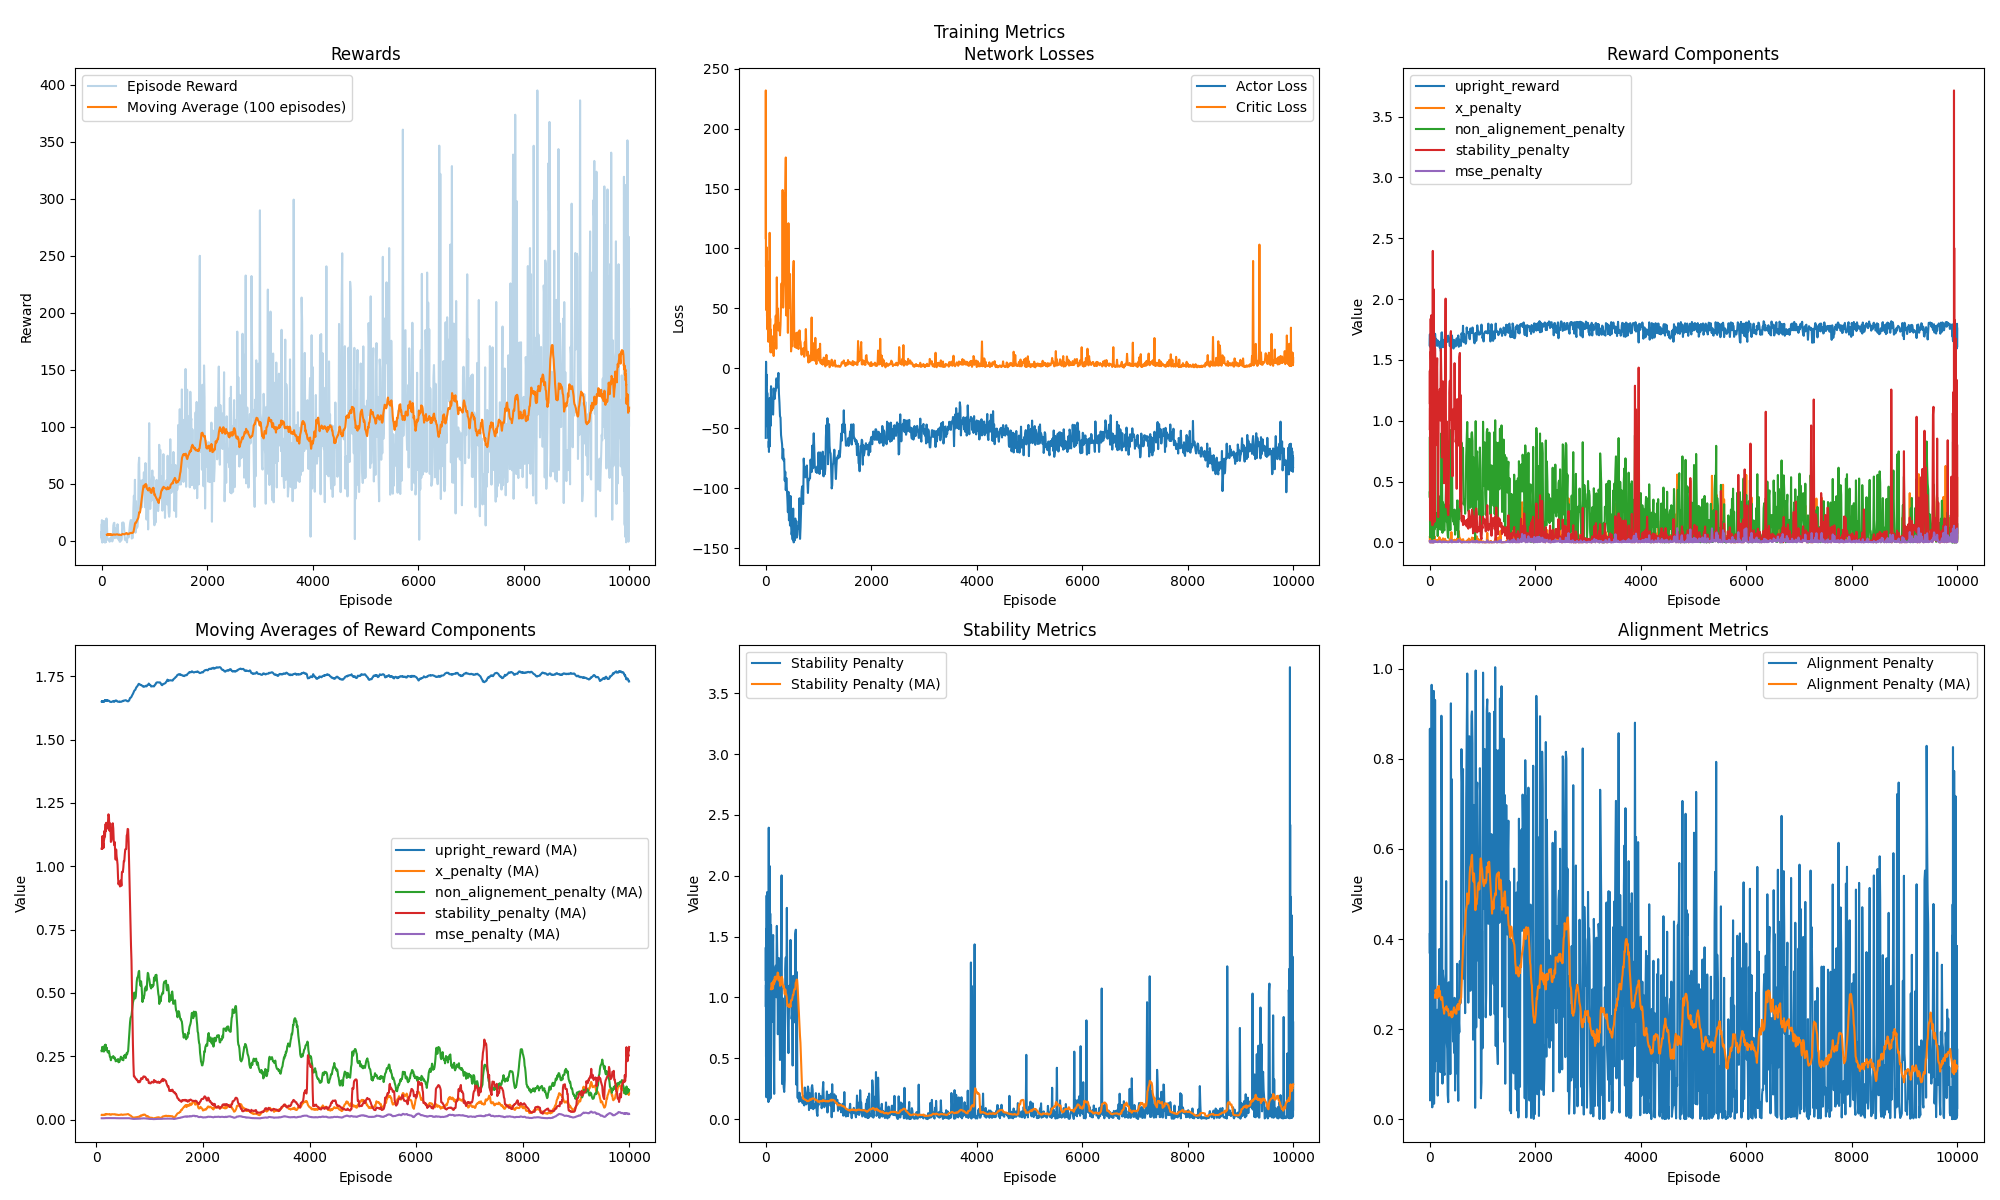
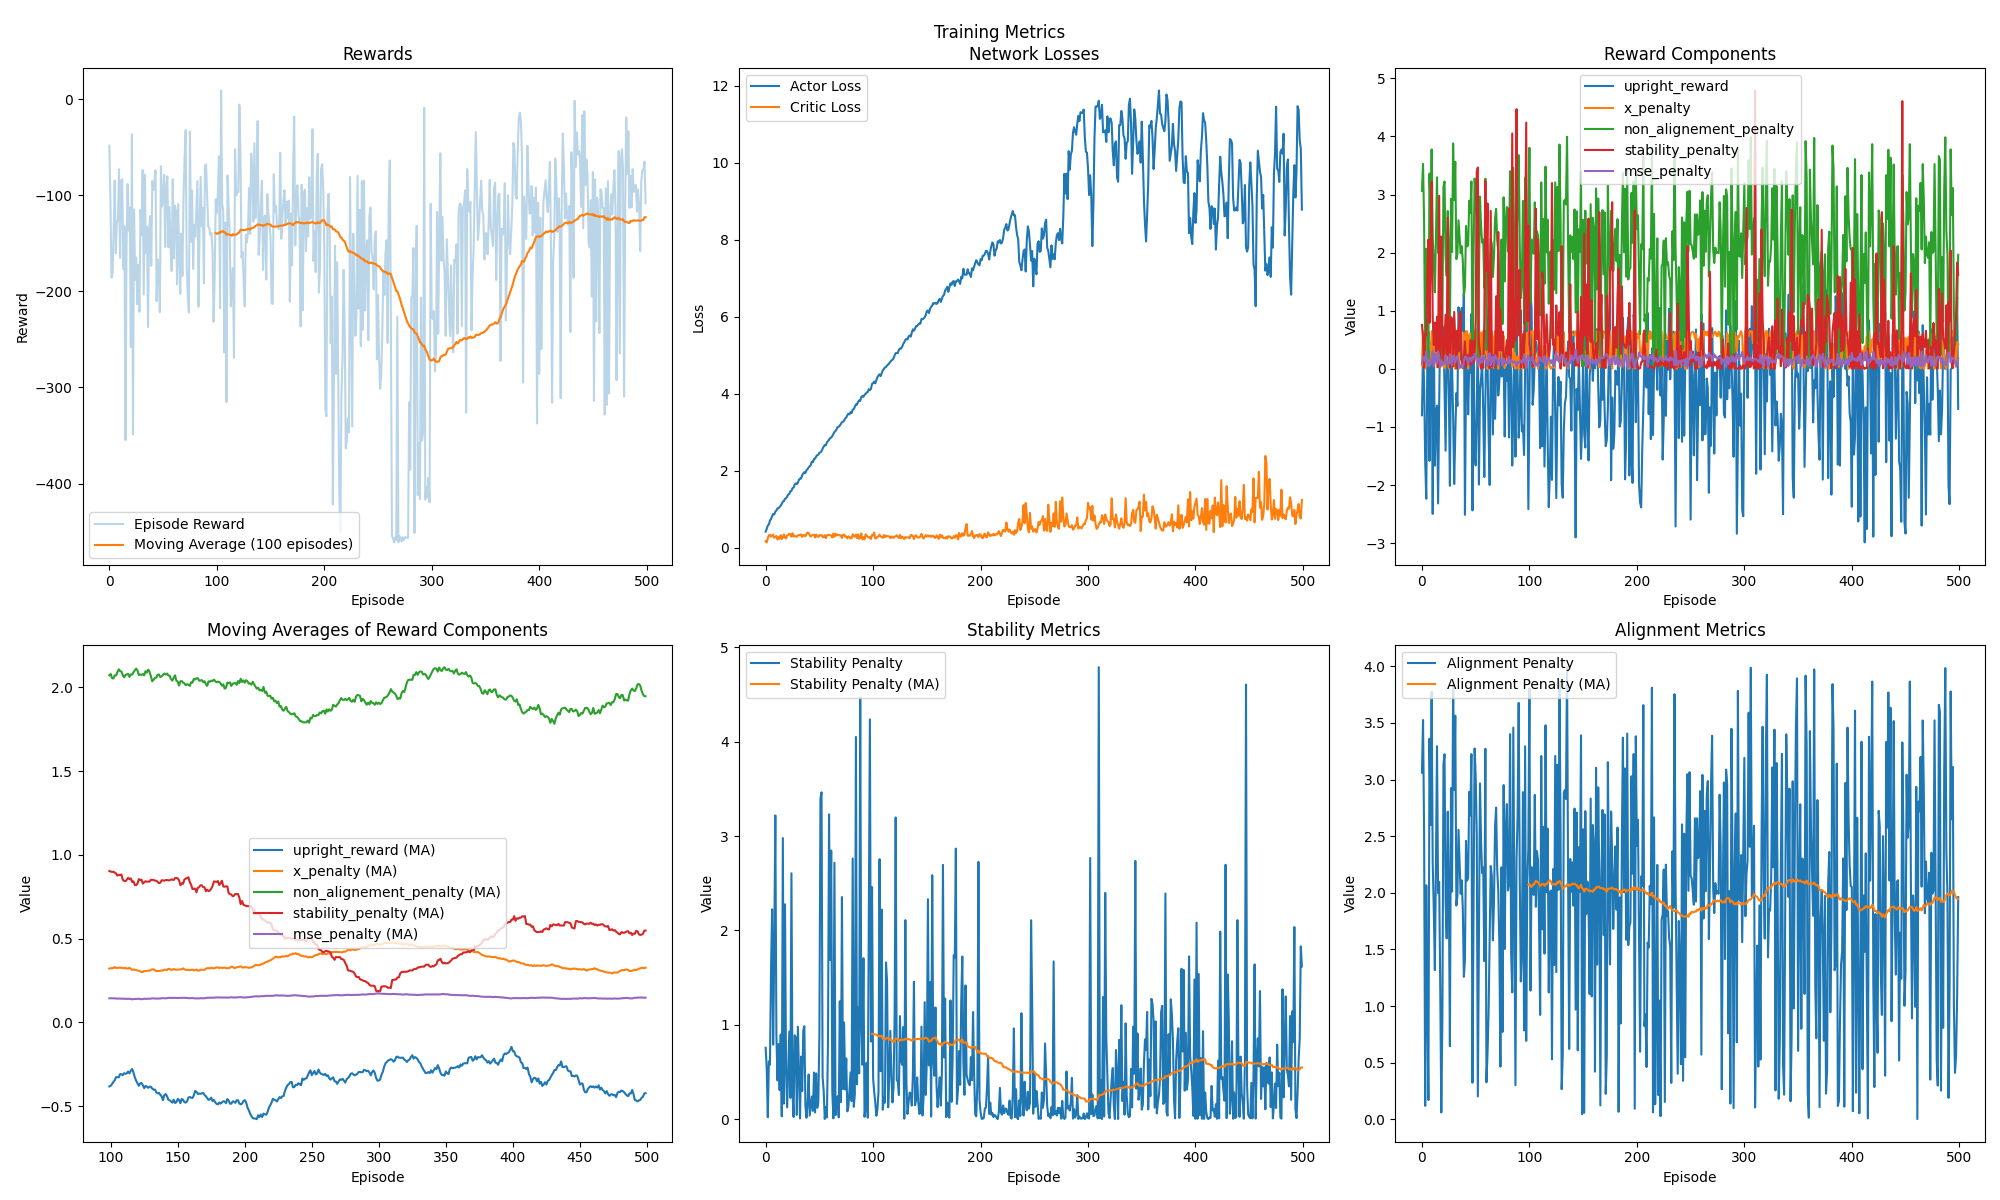
test

diff --git a/tp_env.py b/tp_env.py
@@ -12,7 +12,7 @@ GRAVITY = config['gravity']
 DT = 0.01
 
 class TriplePendulumEnv:
-    def __init__(self, reward_manager=None, render_mode=None, num_nodes=config['num_nodes'], arm_length=1./3, bob_mass=0.01/3, friction_coefficient=config['friction_coefficient']):
+    def __init__(self, reward_manager=None, render_mode=None, num_nodes=config['num_nodes'], arm_length=1./3, bob_mass=0.01/3, friction_coefficient=config['friction_coefficient'], manual_force=True):
         self.reward_manager = reward_manager
         self.render_mode = render_mode
         self.n = num_nodes
@@ -20,6 +20,7 @@ class TriplePendulumEnv:
         self.bob_mass = bob_mass
         self.friction_coefficient = friction_coefficient
         self.cart_friction = 0.1
+        self.manual_force = manual_force
 
         # Paramètre de simulation pas-à-pas
         self.dt = DT  # Durée d'un pas de simulation
@@ -139,7 +140,7 @@ class TriplePendulumEnv:
     def reset(self):
         # Initialisation de l'état
         position_initiale_chariot = 0.0
-        rd_angle = pi/2 + rd.uniform(-pi/8, pi/8)
+        rd_angle = -pi/2 # rd.uniform(-pi, pi)
         angles_initiaux = [rd_angle] + [rd_angle] * (len(self.positions) - 2)
         vitesses_initiales = 0.0
         state = hstack((
@@ -303,10 +304,11 @@ class TriplePendulumEnv:
 
     def step(self, action=0.0):
         """
-        Effectue un pas de simulation avec l'action donnée (force appliquée).
+        Effectue un pas de simulation avec l'action donnée.
         
         Args:
-            action (float): Force appliquée au chariot
+            action (float): Si manual_force est True, force appliquée au chariot.
+                          Si manual_force est False, vitesse cible du chariot.
             
         Returns:
             np.array: Le nouvel état après le pas de simulation
@@ -314,14 +316,24 @@ class TriplePendulumEnv:
         if self.current_state is None:
             self.reset()
         
-        if (self.current_state[0] > 1.65 and action > 0) :
-            action = -0.1
-        elif (self.current_state[0] < -1.65 and action < 0):
-            action = 0.1
-            
-        # Appliquer le lissage à la force
-        force_smoothing = 0.1
-        self.applied_force += force_smoothing * (action - self.applied_force)
+        if self.manual_force:
+            # Mode force manuelle
+            if (self.current_state[0] > 1.65 and action > 0):
+                action = -0.1
+            elif (self.current_state[0] < -1.65 and action < 0):
+                action = 0.1
+                
+            # Appliquer le lissage à la force
+            force_smoothing = 0.1
+            self.applied_force += force_smoothing * (action - self.applied_force)
+        else:
+            # Mode vitesse directe
+            num_joints = len(self.positions)
+            current_velocity = self.current_state[num_joints]
+            velocity_error = action - current_velocity
+            # Contrôleur PID simple pour atteindre la vitesse cible
+            kp = 2.0  # Gain proportionnel
+            self.applied_force = kp * velocity_error
         
         # Calcul du nouvel état
         state_derivative = self.rhs(self.current_state, self.current_time, self.parameter_vals, lambda state: self.applied_force)
@@ -349,7 +361,7 @@ class TriplePendulumEnv:
         self.current_state = next_state
         self.current_time += self.dt
 
-        terminated = False # abs(self.current_state[0]) > 1.6
+        terminated = False
         
         return self.get_state(), terminated
         
@@ -579,7 +591,7 @@ class TriplePendulumEnv:
         
         return True
 
-    def animate_pendulum_pygame(self, max_steps, states=None, length=None, title='Pendulum'):
+    def animate_pendulum_pygame(self, max_steps, states=None, length=None, title='Pendulum', manual_mode = False):
         """
         Anime le pendule en utilisant les méthodes step et render.
         
@@ -682,4 +694,4 @@ if __name__ == "__main__":
     
     # Utilisation avec les nouvelles méthodes
     env.reset()
-    env.animate_pendulum_pygame(max_steps=10_000, title='Simulation Triple Pendule')
+    env.animate_pendulum_pygame(max_steps=10_000, title='Simulation Triple Pendule', manual_mode = True)

diff --git a/reward.py b/reward.py
@@ -14,7 +14,7 @@ class RewardManager:
         # Reward weights
         # -----------------------
         self.cart_position_weight = 0.20
-        self.nodes_position_weight = 0.80
+        self.nodes_position_weight = 0.20
         self.termination_penalty = 1
         self.alignement_weight = 2.0
         self.upright_weight = 1.5
@@ -184,19 +184,19 @@ class RewardManager:
         self.prev_output = end_node_y
 
         # Compute the score
-        reward = self.time_over_threshold / (1 + self.smoothed_variation) + end_node_y * 5
+        reward = self.time_over_threshold / (1 + self.smoothed_variation) + max(end_node_y * 5, 0)
 
         # Normalize reward
         border_penalty = 0.0
         if x < -1.6 or x > 1.6:
             border_penalty = 1
-        reward = np.sqrt((reward / 25) * ((2 * np.pi) ** (-0.5) * np.exp(-(x) ** 2))) - border_penalty - x_nodes_penalty
+        reward = np.sqrt((reward / 25) * ((2 * np.pi) ** (-0.5) * np.exp(-(x) ** 2))) - border_penalty
 
         # Apply termination penalty
         if terminated:
             reward -= self.termination_penalty
 
-        if end_node_y < self.max_height * self.threshold_ratio :
+        if end_node_y < 0.0 and self.have_been_upright_once and False:
             self.force_terminated = True
             reward -= 3
         

diff --git a/train.py b/train.py
@@ -62,7 +62,7 @@ class TriplePendulumTrainer:
         action_dim = 1
         self.actor = TriplePendulumActor(state_dim, action_dim, config['hidden_dim'])
         self.critic = TriplePendulumCritic(state_dim, action_dim, config['hidden_dim'])
-        self.num_exploration_episodes = 600
+        self.num_exploration_episodes = 200
 
         # Optimizers
         self.actor_optimizer = torch.optim.Adam(self.actor.parameters(), lr=config['actor_lr'])
@@ -75,7 +75,7 @@ class TriplePendulumTrainer:
         self.full_plot_frequency = plot_config.get('full_plot_frequency', 1000)
         
         self.total_steps = 0
-        self.max_steps = 4_000  # Maximum steps per episode
+        self.max_steps = 500  # Maximum steps per episode
         
         # Exploration parameters
         self.epsilon = 1.0  # Initial random action probability

diff --git a/config.py b/config.py
@@ -1,5 +1,5 @@
 config = {
-    'num_episodes': 10_000,
+    'num_episodes': 100_000,
     'actor_lr': 3e-4,
     'critic_lr': 3e-4,
     'gamma': 0.99,
@@ -7,9 +7,9 @@ config = {
     'hidden_dim': 512,
     'buffer_capacity': 25_000,
     'updates_per_episode': 10,
-    'load_models': True,
+    'load_models': False,
     'num_nodes': 2,
-    'gravity': 9.81,
+    'gravity': 0.81,
     'friction_coefficient': 0.1,
     
     # Options de visualisation et de plots
